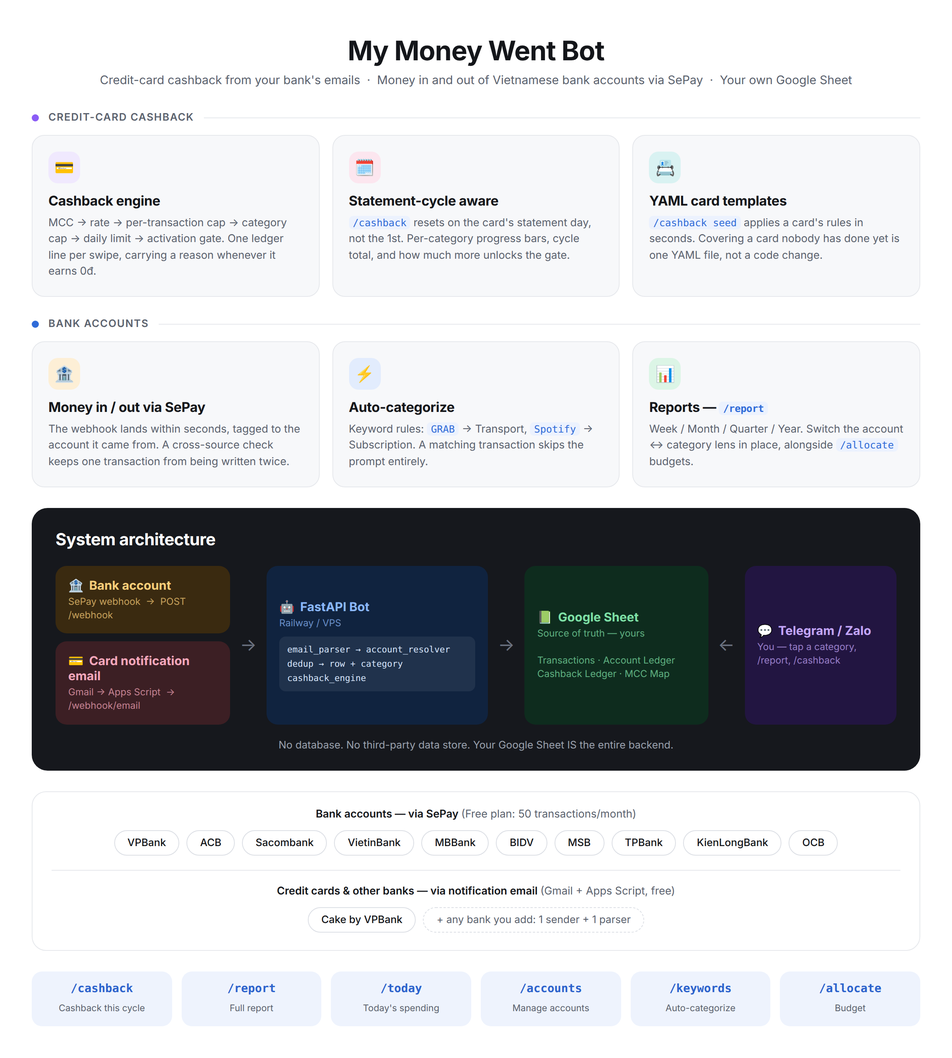
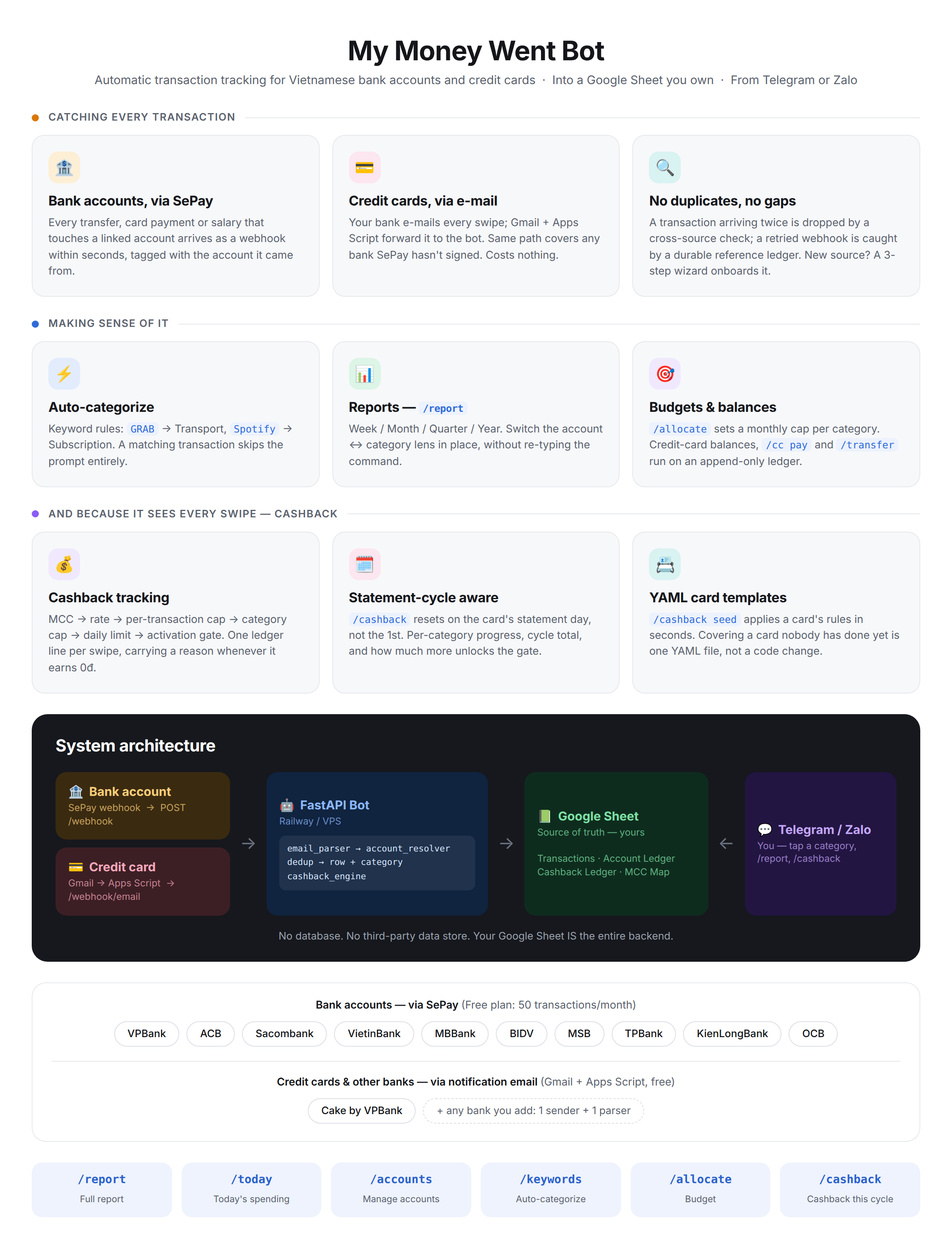
docs: put transaction tracking back at the centre, cashback among the features
The last few passes let cashback take over the framing: it was the headline,
the first feature section and the first screenshot, which is not what the bot
mainly is. The bot automatically tracks transactions — from Vietnamese bank
accounts through SePay and from credit cards through the bank's notification
emails — and cashback is one of the things it can then do, because it already
sees every swipe.

So the tagline, "What it does", the feature order, the screenshots, Step 6,
the quick intro, the wiki front page and all three images now lead with the
two transaction sources. Features are grouped: catching every transaction,
making sense of it, cashback, everywhere. Cashback keeps all its detail, in
third place instead of first.

Claude-Session: https://claude.ai/code/session_01APqEx8qirVwneZcVPg8t2x

diff --git a/README.md b/README.md
@@ -5,9 +5,9 @@
 
 [🇻🇳 Tiếng Việt](README.vi.md)
 
-![My Money Went Bot — credit-card cashback tracking from bank notification emails, plus money in and out of Vietnamese bank accounts via SePay, written to a Google Sheet you own](docs/screenshots/banner.png)
+![My Money Went Bot — automatic transaction tracking for Vietnamese bank accounts and credit cards, written to a Google Sheet you own and categorized from Telegram or Zalo](docs/screenshots/banner.png)
 
-**Credit-card cashback tracking from your bank's notification emails, plus every đồng in and out of your Vietnamese bank accounts through [SePay](https://sepay.vn) — written to a Google Sheet you own, driven from Telegram or Zalo.**
+**Automatic transaction tracking for your Vietnamese bank accounts and your credit cards.** Every transaction lands in a Google Sheet you own and gets categorized from Telegram or Zalo — no manual entry, no bank login, no third-party data store.
 
 > 🙏 **Credits:** built on top of patterns from [`maddyle8124/spend-less-bot`](https://github.com/maddyle8124/spend-less-bot). Big thanks to Maddy — without that seed this wouldn't exist.
 
@@ -15,16 +15,19 @@
 
 ## What it does
 
-![How it works — a bank account transaction arrives by SePay webhook and a credit-card notification email arrives via Gmail and Apps Script; the bot deduplicates, resolves the account, categorizes and runs the cashback engine; everything lands in your Google Sheet and comes back to you on Telegram or Zalo](docs/screenshots/how-it-works.png)
+![How it works — a bank account transaction arrives by SePay webhook and a credit-card swipe arrives as a notification email via Gmail and Apps Script; the bot deduplicates, resolves the account and categorizes it; the row lands in your Google Sheet and comes back to you on Telegram or Zalo](docs/screenshots/how-it-works.png)
 
-**My Money Went Bot is a personal finance bot that lives in your Telegram (or Zalo) chat. It does two jobs:**
+**My Money Went Bot is a personal expense tracker that lives in your Telegram (or Zalo) chat.** It catches your transactions the moment they happen, from two sources at once:
 
-**1. Tracks money in and out of your Vietnamese bank accounts.** Link your accounts to [SePay](https://sepay.vn); every incoming or outgoing transaction reaches the bot as a webhook within seconds, is written to a Google Sheet *you own*, and gets categorized with one tap — or automatically, once you've taught the bot a keyword rule. `/report` slices it all by account, by category, and by week / month / quarter / year. SePay's free plan covers 50 transactions a month; see [What SePay costs](#what-sepay-costs).
+- **Vietnamese bank accounts** — link them to [SePay](https://sepay.vn) and every transfer, card payment or salary arrives as a webhook within seconds. SePay's free plan covers 50 transactions a month; see [What SePay costs](#what-sepay-costs).
+- **Credit cards** — your bank emails you for every swipe, and a small Google Apps Script forwards those emails to the bot. This also covers any bank SePay hasn't signed. Costs nothing.
 
-**2. Tracks credit-card cashback from the bank's own notification emails.** Cards and banks that SePay doesn't cover — Cake by VPBank ships as a worked example — email you for every swipe. A small Google Apps Script forwards those emails to the bot, which parses the amount and merchant, files the transaction against the right card, and runs the cashback engine: MCC classification, the card's rate, per-transaction tiers, per-category caps, daily limits and the activation gate — all per statement cycle. Every swipe replies with what it earned; `/cashback` shows the whole cycle: what you've earned, how close each category is to its cap, and how much more you need to spend to unlock it.
+Either way the transaction is written to a Google Sheet *you own*, tagged with the account it came from, and categorized with one tap — or with no tap at all, once you've taught the bot a keyword rule. `/report` then slices everything by account, by category, and by week / month / quarter / year.
+
+On top of that tracking sit the things you'd otherwise do by hand: monthly budgets per category, credit-card balances and payments, and **cashback tracking** that tells you what each swipe earned before the statement closes.
 
 <details>
-<summary>📐 Detailed flow — the two inputs, the cashback branch, auto-categorize and onboarding</summary>
+<summary>📐 Detailed flow — the two sources, categorizing, and the cashback branch</summary>
 
 ```mermaid
 flowchart TD
@@ -67,43 +70,47 @@ Most personal finance apps (Money Lover, Misa, MoneyKeeper, ...) want your bank 
 
 - **You own the data.** It lives in your Google Sheet. Export, fork, archive, pivot — your call.
 - **You see every line of code.** ~3,000 LOC of Python. Audit, customize, ship.
-- **You know your cashback before the bank tells you.** Banks show cashback after the statement closes. The bot shows it per swipe — what this one earned, how much cap is left in that category, how far you are from the activation gate — so the *next* purchase goes on the right card.
 - **You categorize once.** Auto-categorization via `/keywords` means recurring tx (Spotify, Grab, ...) skip the picker.
 - **Reports match your real model** — per-account *and* per-category, across week/month/quarter/year. Not just "monthly category bar chart".
+- **Nothing is entered by hand.** Both a bank transfer and a card swipe reach the sheet on their own, so the record is complete rather than whatever you remembered to type in.
 
 ---
 
 ## Features
 
-![Feature overview — credit-card cashback features, bank-account features, the two-input system architecture, supported banks, and the command list](docs/screenshots/features-architecture.png)
+![Feature overview — how transactions are caught from both sources, categorizing and reporting, cashback tracking, the system architecture, supported banks, and the command list](docs/screenshots/features-architecture.png)
 
-The full feature breakdown:
+The full feature breakdown.
+
+### Catching every transaction
+
+🏦 **Bank accounts, via SePay** — every transfer, card payment or salary that touches a linked account arrives as a webhook within seconds and is tagged with the account it came from. Enable *Tiền ra* only for spending, or both directions to see income too.
+
+📧 **Credit cards and other banks, via notification email** — `google_apps_script.js` polls Gmail every minute, forwards each notification email exactly once (deduplicated by message id, not by thread) to `/webhook/email`, and `handlers/email_parser.py` turns it into the same transaction payload SePay would have sent. Everything downstream — accounts, categories, reports, cashback — is identical whichever way a transaction arrived.
+
+🔍 **No duplicates, no gaps** — a transaction that arrives twice (once from SePay, once by email) is dropped by a fuzzy cross-source check, and a webhook retried by SePay is caught by a durable reference ledger.
+
+🤖 **Smart account onboarding** — the first time a transaction arrives from an unmapped source, the bot asks. Three-step wizard: name → type → done (a credit card also asks for limit, statement day and due day). Later transactions from that source route themselves.
+
+🔁 **Historical backfill** — `/accounts assign <slug>` retroactively links unmapped past transactions to a newly-onboarded account, so nothing is lost between "first webhook" and "wizard complete".
+
+### Making sense of it
+
+⚡ **Auto-categorize** — `/keywords` lets you define patterns ("GRAB" → Daily Spending, "Spotify" → Subscription). Matching transactions skip the prompt entirely.
+
+📊 **Unified `/report` with 2 lenses × 4 periods** — week/month/quarter/year via inline buttons. Toggle account ↔ category lens in-place. No re-typing the command.
+
+🎯 **Smart budget allocation** — `/allocate` sets monthly caps per category. After setup, it returns in *edit mode* — tap one bucket to change its limit, no re-walking the full wizard.
+
+🧾 **Balances and transfers** — outstanding balance per credit card, `/cc pay` to record a payment, `/transfer` for moves between your own accounts, all on an append-only ledger.
 
 ### Credit-card cashback
 
-💳 **Cashback engine, one ledger line per swipe** — the bot classifies the merchant into an MCC using a self-learning keyword → MCC map (when it can't tell, it asks once with the card's categories as buttons and remembers your answer), applies the card's rate, per-transaction tier caps, the per-category cap for the cycle, daily transaction limits and the activation gate (e.g. "spend 5,000,000đ this cycle to unlock"). Cashback shows as *pending* until the gate is met. Every 0đ line carries a reason (`mcc_unknown`, `mcc_not_eligible`, `daily_limit`, `mcc_cap_full`), so the ledger is auditable. Wrong? Tap **Sai CB** to void it.
+💳 **Cashback tracking** — because the bot already sees every swipe, it can also work out what each one earned. It classifies the merchant into an MCC using a self-learning keyword → MCC map (when it can't tell, it asks once with the card's categories as buttons and remembers your answer), then applies the card's rate, per-transaction tier caps, the per-category cap for the cycle, daily transaction limits and the activation gate (e.g. "spend 5,000,000đ this cycle to unlock"). Cashback shows as *pending* until the gate is met, and every 0đ line carries a reason (`mcc_unknown`, `mcc_not_eligible`, `daily_limit`, `mcc_cap_full`) so the ledger is auditable. Wrong? Tap **Sai CB** to void it.
 
 🗓 **Statement-cycle aware** — caps and gates reset on the card's statement day, not on the 1st (`cap_period: statement_cycle` or `calendar_month`, per card). `/cashback` shows the live cycle: per-category progress bars, cycle total, spend vs gate, and "need X more to activate".
 
 📇 **Card templates in YAML** — `card_templates/cake_freedom.yaml` for a real card, `card_templates/example_visa.yaml` for the fields it doesn't use. `/cashback seed cake_freedom` applies one in seconds; `/cashback setup` walks you through a card no template covers; `/cashback export` turns a tuned config back into a template you can share. Adding a card nobody has covered is a pull request, not a code change.
-
-📧 **Email ingestion** — for cards and banks SePay doesn't cover, `google_apps_script.js` polls Gmail every minute, forwards each notification email exactly once (deduplicated by message id, not by thread) to `/webhook/email`, and `handlers/email_parser.py` turns it into the same transaction payload SePay would have sent — so everything downstream (accounts, categories, reports, cashback) is identical.
-
-### Bank accounts
-
-🏦 **Money in / out via SePay** — every transfer, card payment or salary that touches a linked account arrives as a webhook within seconds and is tagged with the account it came from. Enable *Tiền ra* only for spending, or both directions to see income too. `/report` slices by account (TPB / Vietcombank / cash) and by category. A fuzzy cross-source check drops the same transaction when it arrives twice (SePay *and* an email).
-
-📊 **Unified `/report` with 2 lenses × 4 periods** — week/month/quarter/year via inline buttons. Toggle account ↔ category lens in-place. No re-typing the command.
-
-🤖 **Smart account onboarding** — first time a tx arrives from an unmapped source, bot asks. 3-step wizard: name → type → done (a credit card also asks for limit, statement day and due day). Future tx auto-route.
-
-⚡ **Auto-categorize** — `/keywords` lets you define patterns ("GRAB" → Daily Spending, "Spotify" → Subscription). Matching tx skip the prompt entirely.
-
-🎯 **Smart budget allocation** — `/allocate` sets monthly caps per category. After setup, returns in *edit mode* — tap one bucket to change its limit, no re-walking the full wizard.
-
-🔁 **Historical backfill** — `/accounts assign <slug>` retroactively links unmapped past txs to a newly-onboarded account. No tx lost between "first webhook" and "wizard complete".
-
-🧾 **Balances and transfers** — outstanding balance per credit card, `/cc pay` to record a payment, `/transfer` for moves between your own accounts, all on an append-only ledger.
 
 ### Everywhere
 
@@ -111,22 +118,13 @@ The full feature breakdown:
 
 🌐 **Bilingual UI** — `/lang` switches the whole bot between Vietnamese and English.
 
-🇻🇳 **Vietnamese banks, VND-first** — works with anything SePay supports plus the email-covered banks above. A foreign-currency account (HKD, USD, ...) is tracked per-account without polluting VND totals or the daily cap.
+🇻🇳 **Vietnamese banks, VND-first** — works with anything SePay supports plus any bank you add an email parser for. A foreign-currency account (HKD, USD, ...) is tracked per-account without polluting VND totals or the daily cap.
 
 ---
 
 ## Screenshots
 
-**Cashback tracking.** A Grab ride on a Cake Freedom card: the transaction is logged, the cashback line shows what it earned and that it's pending, and the gate bar shows how far the cycle is from activation. `/cashback` then gives the whole statement cycle at a glance:
-
-<table>
-  <tr>
-    <td><img src="docs/screenshots/cashback-transaction-telegram.png" alt="A credit-card transaction logged with its cashback line, category cap and activation-gate progress, followed by the keyword-rule prompt" /></td>
-    <td><img src="docs/screenshots/cashback-overview-telegram.png" alt="/cashback overview for one statement cycle: rate, gate, billing days, per-category caps with progress bars, cycle total and the amount still needed to activate" /></td>
-  </tr>
-</table>
-
-**Bank tracking.** Auto-categorization from a keyword rule, and the monthly report by category and by account:
+**Tracking and reporting.** A transaction auto-categorized from a keyword rule, and the same month reported by category and by account:
 
 <table>
   <tr>
@@ -136,6 +134,15 @@ The full feature breakdown:
   <tr>
     <td><img src="docs/screenshots/report-monthly-category-telegram.png" alt="Category-lens monthly report" /></td>
     <td><img src="docs/screenshots/report-monthly-account-telegram.png" alt="Account-lens monthly report — the same month sliced per bank account" /></td>
+  </tr>
+</table>
+
+**Cashback.** A Grab ride on a Cake Freedom card: the transaction is logged, the cashback line shows what it earned and that it is still pending, and the gate bar shows how far the cycle is from activation. `/cashback` gives the whole statement cycle at a glance:
+
+<table>
+  <tr>
+    <td><img src="docs/screenshots/cashback-transaction-telegram.png" alt="A credit-card transaction logged with its cashback line, category cap and activation-gate progress, followed by the keyword-rule prompt" /></td>
+    <td><img src="docs/screenshots/cashback-overview-telegram.png" alt="/cashback overview for one statement cycle: rate, gate, billing days, per-category caps with progress bars, cycle total and the amount still needed to activate" /></td>
   </tr>
 </table>
 
@@ -251,7 +258,7 @@ The wiki pages are versioned in this repo under `docs/wiki/` — edit them there
    (Income tx are logged but skip the category picker — see [Why this exists](#why-this-exists).)
 3. ⚠ **Disable SePay's native Google Sheets integration** — this bot writes its own rows; doubling = duplicate transactions.
 
-Credit cards and banks SePay doesn't cover come in through email instead — see [Step 6](#step-6--turn-on-credit-card-cashback-optional).
+Credit cards and banks SePay doesn't cover come in through email instead — see [Step 6](#step-6--track-your-credit-cards-too-optional).
 
 ### Step 4 — Deploy
 
@@ -314,9 +321,9 @@ journalctl -u mmwbot -f   # watch logs
 
 Future tx from the same account auto-route. Set up `/keywords` rules to auto-categorize recurring tx.
 
-### Step 6 — Turn on credit-card cashback (optional)
+### Step 6 — Track your credit cards too (optional)
 
-This is the email path: the bank's notification emails reach the bot through a Google Apps Script, so it works for any card whether or not SePay supports the bank.
+SePay covers bank accounts. Cards — and any bank SePay hasn't signed — reach the bot through their notification emails instead, forwarded by a Google Apps Script. Once a card is tracked you can also turn cashback on for it.
 
 1. Generate `EMAIL_SECRET` (`openssl rand -hex 16`) and set it on Railway.
 2. Go to [script.google.com](https://script.google.com) → New project → paste [`google_apps_script.js`](google_apps_script.js).
@@ -324,9 +331,8 @@ This is the email path: the bank's notification emails reach the bot through a G
 4. Run `checkBankEmails` once to grant Gmail access, then run `bootstrapProcessed` once so the bot does not replay your whole inbox.
 5. **Triggers → Add trigger** → `checkBankEmails` → time-driven → every minute.
 6. Make one small purchase with the card. The bot pings; onboard the source as **🧾 Credit** (it asks for limit, statement day and due day).
-7. `/cashback templates` → `/cashback seed cake_freedom <card-slug>` (or `/cashback setup <card-slug>` for a card with no template).
 
-From now on every swipe replies with its cashback line, and `/cashback` shows the current statement cycle.
+Every swipe is now tracked like any other transaction. To add cashback on top, run `/cashback templates` → `/cashback seed cake_freedom <card-slug>` (or `/cashback setup <card-slug>` for a card no template covers); from then on each swipe replies with what it earned and `/cashback` shows the current statement cycle.
 
 ---
 

diff --git a/docs/QUICK_INTRO.md b/docs/QUICK_INTRO.md
@@ -1,6 +1,6 @@
 # My Money Went Bot
 
-![My Money Went Bot — credit-card cashback tracking from bank notification emails, plus money in and out of Vietnamese bank accounts via SePay, written to a Google Sheet you own](screenshots/banner.png)
+![My Money Went Bot — automatic transaction tracking for Vietnamese bank accounts and credit cards, written to a Google Sheet you own and categorized from Telegram or Zalo](screenshots/banner.png)
 
 [English](../README.md) | [Tiếng Việt](../README.vi.md) | [Setup bằng AI](AI_SETUP.md)
 
@@ -12,16 +12,17 @@
 ![Railway](https://img.shields.io/badge/Deploy-Railway-0B0D0E?style=for-the-badge&logo=railway&logoColor=white)
 ![License](https://img.shields.io/badge/License-MIT-D4A017?style=for-the-badge)
 
-# My Money Went Bot - cashback thẻ tín dụng và tiền ra / vào ngân hàng, ngay trong Telegram
+# My Money Went Bot - tự động theo dõi giao dịch thẻ và ngân hàng, ngay trong Telegram
 
-Bot làm hai việc: theo dõi **cashback thẻ tín dụng** từ chính email thông báo của ngân hàng (biết mỗi lần quẹt được hoàn bao nhiêu, còn bao nhiêu cap, cách cổng kích hoạt bao xa), và theo dõi **từng đồng ra / vào tài khoản ngân hàng Việt Nam** qua SePay. Mọi thứ ghi vào Google Sheet của bạn, phân loại bằng nút bấm, báo cáo theo ngày, tuần, tháng, quý, năm.
+Bot tự ghi mọi giao dịch **thẻ tín dụng** và **tài khoản ngân hàng Việt Nam** vào Google Sheet của bạn, hỏi bạn phân loại bằng nút bấm (hoặc tự phân loại nếu đã có keyword rule), rồi báo cáo theo ngày, tuần, tháng, quý, năm. Trên nền đó có thêm ngân sách theo danh mục, dư nợ thẻ, và theo dõi cashback.
 
 ---
 
 ## Bạn đang gặp vấn đề này?
 
-- Có thẻ cashback (Cake Freedom, ...) nhưng chỉ biết được hoàn bao nhiêu khi ngân hàng chốt sao kê — không biết danh mục nào đã đầy cap, đã qua cổng kích hoạt chưa, nên quẹt thẻ nào cho lần tiếp theo.
 - Muốn biết tiền đi đâu nhưng lười nhập tay từng khoản.
+- Giao dịch thẻ tín dụng nằm một nơi, giao dịch ngân hàng nằm một nơi, cuối tháng không cộng lại được.
+- Có thẻ cashback nhưng chỉ biết được hoàn bao nhiêu khi ngân hàng chốt sao kê.
 - App quản lý chi tiêu bắt đăng nhập ngân hàng hoặc giữ data trên cloud của họ.
 - Sao kê ngân hàng khó đọc, khó phân loại, khó xem theo account/category.
 - Google Sheet linh hoạt nhưng cập nhật thủ công quá mệt.
@@ -37,9 +38,11 @@ Tài khoản ngân hàng  ── SePay webhook ───────────
 Thẻ tín dụng / bank ── email thông báo ─ Apps Script ┘        └─ cashback engine: MCC · rate · cap · cổng
 ```
 
-Với thẻ tín dụng, mỗi lần quẹt bot trả lời ngay khoản này được hoàn bao nhiêu, và `/cashback` cho thấy cả kỳ sao kê: từng danh mục còn bao nhiêu cap, tổng kỳ, và cần tiêu thêm bao nhiêu để mở cổng. Rule của từng thẻ là file YAML trong `card_templates/` — có sẵn Cake Freedom, thêm thẻ khác chỉ cần thêm một file, không sửa code.
-
 Với tài khoản ngân hàng, SePay nhận thông báo từ ngân hàng và gửi webhook cho bot. Gói Free của SePay là 0đ với 50 giao dịch/tháng; vượt thì tính phí phần vượt hoặc lên gói trả phí — xem [bảng giá SePay](https://sepay.vn/bang-gia.html).
+
+Với thẻ tín dụng, bot đọc chính email thông báo mà ngân hàng gửi cho bạn — cách này cũng phủ luôn ngân hàng nào SePay chưa hỗ trợ, và không tốn phí.
+
+Vì bot đã thấy mọi lần quẹt, nó tính luôn được cashback: mỗi lần quẹt trả lời ngay được hoàn bao nhiêu, `/cashback` cho thấy cả kỳ sao kê. Rule của từng thẻ là file YAML trong `card_templates/` — thêm thẻ khác chỉ cần thêm một file, không sửa code.
 
 Điểm quan trọng: **My Money Went Bot không truy cập tài khoản ngân hàng của bạn.** Bot không đăng nhập ngân hàng, không đọc biến động số dư trực tiếp, không truy vấn lịch sử giao dịch, và không giữ username/password/OTP/số thẻ. Bot chỉ nhận dữ liệu giao dịch mà **SePay gửi qua webhook** sau khi bạn tự cấu hình SePay — hoặc, với thẻ tín dụng, **email thông báo** mà Google Apps Script của bạn chuyển tới từ Gmail của chính bạn.
 
@@ -69,16 +72,16 @@ Khi có giao dịch mới:
 
 | Tính năng | Tác dụng |
 |---|---|
-| `/cashback` | Cashback thẻ tín dụng theo kỳ sao kê: MCC, rate, cap từng danh mục, giới hạn ngày, cổng kích hoạt |
-| Template thẻ YAML | `/cashback seed cake_freedom` — áp rule của thẻ trong vài giây, thêm thẻ mới bằng một file |
-| Email ingestion | Thẻ / ngân hàng ngoài SePay vào qua Gmail + Apps Script (có sẵn Cake) |
-| Tiền ra / vào qua SePay | Mỗi giao dịch của tài khoản đã link đến trong vài giây, tag đúng account |
+| Tracking qua SePay | Mỗi giao dịch của tài khoản đã link về trong vài giây, gắn đúng tài khoản |
+| Tracking thẻ qua email | Thẻ tín dụng và ngân hàng ngoài SePay vào qua Gmail + Apps Script |
 | Telegram / Zalo category picker | Tap nút để phân loại giao dịch mới |
 | Auto-categorize | Rule kiểu `GRAB -> Daily Spending`, `Spotify -> Subscription` |
 | Per-account tracking | Biết giao dịch đến từ account nào |
 | `/report` | Xem report theo week/month/quarter/year, theo account hoặc category |
 | `/today` | Xem chi tiêu hôm nay |
 | `/allocate` | Đặt budget theo category |
+| `/cashback` | Cashback thẻ theo kỳ sao kê: MCC, rate, cap danh mục, giới hạn ngày, cổng kích hoạt |
+| Template thẻ YAML | `/cashback seed cake_freedom` — áp rule của thẻ trong vài giây |
 | Google Sheet backend | Dễ export, pivot, audit, chỉnh tay khi cần |
 | Webhook secrets | Chặn request giả từ bên ngoài |
 

diff --git a/docs/wiki/Home.md b/docs/wiki/Home.md
@@ -15,10 +15,12 @@ This wiki is the longer, task-based manual for My Money Went Bot. The README is 
 
 ## What the bot does
 
-My Money Went Bot does two things, both into a Google Sheet you own, driven from **Telegram or Zalo** (two independent channels — set up either, or both):
+My Money Went Bot tracks your transactions automatically, into a Google Sheet you own, driven from **Telegram or Zalo** (two independent channels — set up either, or both). Transactions reach it from two sources:
 
-- **Credit-card cashback tracking.** The bank's own notification emails (Cake by VPBank ships as the worked example) reach the bot through a Google Apps Script. For every swipe the bot classifies the merchant into an MCC, applies the card's rate, per-transaction tiers, per-category caps, daily limits and the activation gate, and replies with what the swipe earned. `/cashback` shows the whole statement cycle. Cards are YAML templates in `card_templates/`.
-- **Money in and out of your bank accounts.** SePay turns each bank notification into a webhook; the bot writes the row, tags the account, and asks for a category (or applies a keyword rule). Reports by account, category, and week/month/quarter/year. SePay's free plan covers 50 transactions a month — see [SePay Setup](SePay-Setup).
+- **Vietnamese bank accounts.** SePay turns each bank notification into a webhook; the bot writes the row, tags the account, and asks for a category (or applies a keyword rule). SePay's free plan covers 50 transactions a month — see [SePay Setup](SePay-Setup).
+- **Credit cards.** The bank's own notification emails reach the bot through a Google Apps Script, which also covers any bank SePay hasn't signed.
+
+Reports slice by account, category, and week/month/quarter/year. On top of the tracking sit monthly budgets, credit-card balances, and cashback tracking — for every swipe the bot works out what it earned (MCC, the card's rate, per-transaction tiers, per-category caps, daily limits, activation gate), and `/cashback` shows the whole statement cycle. Cards are YAML templates in `card_templates/`.
 
 ## Recommended setup path
 
@@ -31,7 +33,7 @@ Telegram and Zalo are independent channels — set up whichever you use, or both
 5. Connect SePay to the Railway webhook URL.
 6. Set the Telegram webhook.
 7. Test `/today` and one small transaction.
-8. Optional — credit-card cashback: set up the Gmail → Apps Script forwarder (`google_apps_script.js`), onboard the card, then `/cashback seed <template>`. Steps are in the README under *Step 6 — Turn on credit-card cashback*.
+8. Optional — track credit cards too: set up the Gmail → Apps Script forwarder (`google_apps_script.js`) and onboard the card; add cashback on top with `/cashback seed <template>`. Steps are in the README under *Step 6*.
 
 Detailed guide: [Setup for Non-Technical Users](Setup-for-Non-Technical-Users)
 
